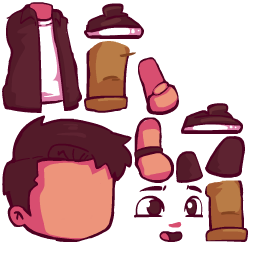
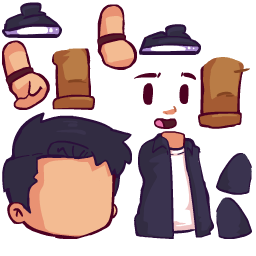
add lenny

diff --git a/index.html b/index.html
@@ -69,8 +69,8 @@
 					<div id="player-container" style="width: 250px; height: 350px;"></div>
 					<script>
 						new spine.SpinePlayer("player-container", {
-							jsonUrl: "https://lnhlam.art/spine/Rose.json",
-							atlasUrl: "https://lnhlam.art/spine/Rose.atlas",
+							jsonUrl: "https://lnhlam.art/spine/Lenny.json",
+							atlasUrl: "https://lnhlam.art/spine/Lenny.atlas",
 							premultipliedAlpha: false, // Disable premultiplied alpha rendering
 							alpha: true, // Enable player translucency
 							backgroundColor: "#00000000", // Background is fully transparent
